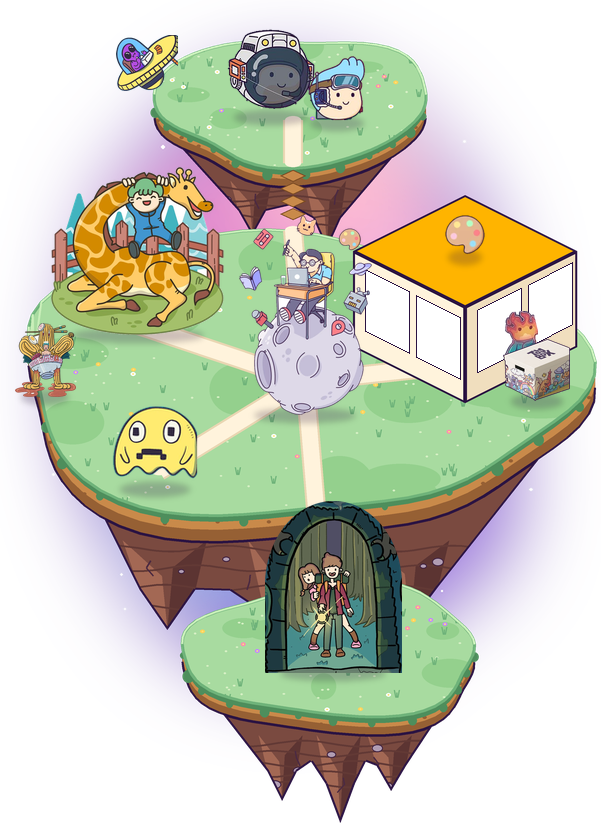
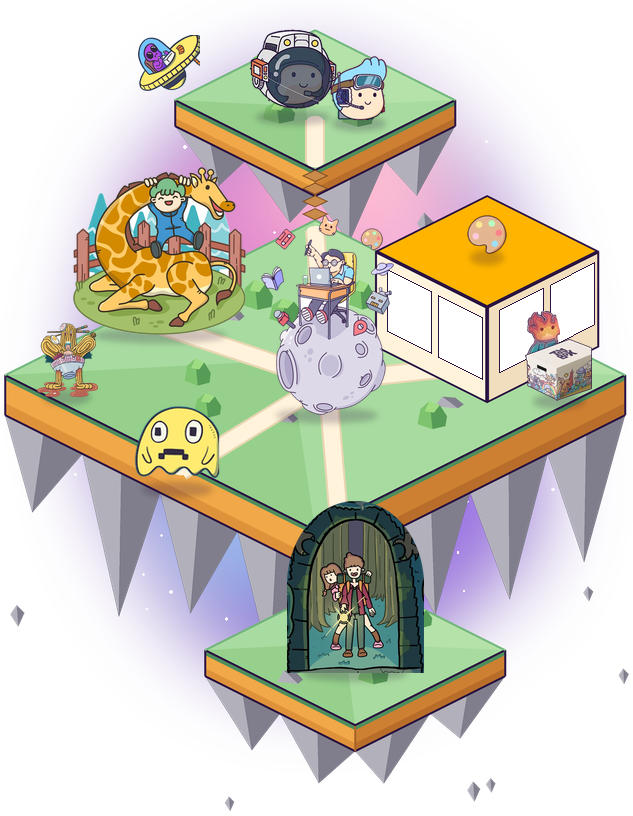
Village islands in the low-poly floating style (owner reference): square grass slabs on thick orange soil, faceted grey rock shards underneath, floating shards, low-poly bushes and stones
The galaxy cloud stays behind; no water. Places, labels and walkers keep their positions.

Claude-Session: https://claude.ai/code/session_014vZdpTepmb6uBiaAW96HMH

diff --git a/assets/village/village.js b/assets/village/village.js
@@ -1,2 +1,2 @@
 // Generated by scripts/village.py from village.json. Do not edit.
-window.VILLAGE={"w": 601, "h": 827, "frames": [{"wall": "left", "x": 368.7, "y": 272.8, "w": 38.1, "h": 56, "slope": 0.5}, {"wall": "left", "x": 419.1, "y": 298.0, "w": 38.1, "h": 56, "slope": 0.5}, {"wall": "right", "x": 480.7, "y": 313.2, "w": 38.1, "h": 56, "slope": -0.5}, {"wall": "right", "x": 531.1, "y": 288.0, "w": 38.1, "h": 56, "slope": -0.5}], "places": {"observatory": {"box": [223, 21, 319, 117], "label": [271.0, 129]}, "gallery": {"box": [353, 195, 578, 405], "label": [465, 411]}, "studio": {"box": [51, 167, 224, 335], "label": [137.5, 347]}, "home": {"box": [239, 215, 372, 415], "label": [305.5, 419]}, "doodle": {"box": [109, 397, 201, 489], "label": [155.0, 493]}, "hire": {"box": [265, 501, 402, 673], "label": [333.5, 677]}}, "folk": {"ufo": {"piece": "doodles", "box": [116, 35, 178, 91]}, "fire-spirit": {"piece": "rpg", "box": [505, 311, 538, 363]}, "noodle-bath": {"piece": "noodles", "box": [15, 323, 76, 397]}}, "walkers": [{"name": "car", "piece": "road-trip", "src": "assets/sprites/car.png", "h": 52, "face": -1, "aspect": 1.379, "route": [[233, 357], [159, 333]]}, {"name": "dog", "piece": "doodles", "src": "assets/sprites/dog.png", "h": 70, "face": -1, "aspect": 0.713, "route": [[251, 409], [195, 447]]}, {"name": "plug-hero", "piece": "plug-hero", "src": "assets/sprites/plug-hero.png", "h": 66, "face": -1, "aspect": 0.821, "route": [[365, 377], [433, 367]]}, {"name": "orange-monster", "piece": "doodles", "src": "assets/sprites/orange-monster.png", "h": 44, "face": 1, "aspect": 1.078, "route": [[293, 131], [293, 165], [293, 213]]}, {"name": "crab", "piece": "summertime", "src": "assets/sprites/crab.png", "h": 30, "face": 0, "aspect": 1.442, "route": [[225, 647], [261, 629]]}], "scenery": [], "lantern": [321.4, 617.1], "smoke": [[45.5, 341]]};
+window.VILLAGE={"w": 633, "h": 816, "frames": [{"wall": "left", "x": 390.7, "y": 272.8, "w": 38.1, "h": 56, "slope": 0.5}, {"wall": "left", "x": 441.1, "y": 298.0, "w": 38.1, "h": 56, "slope": 0.5}, {"wall": "right", "x": 502.7, "y": 313.2, "w": 38.1, "h": 56, "slope": -0.5}, {"wall": "right", "x": 553.1, "y": 288.0, "w": 38.1, "h": 56, "slope": -0.5}], "places": {"observatory": {"box": [245, 21, 341, 117], "label": [293.0, 129]}, "gallery": {"box": [375, 195, 600, 405], "label": [487, 411]}, "studio": {"box": [73, 167, 246, 335], "label": [159.5, 347]}, "home": {"box": [261, 215, 394, 415], "label": [327.5, 419]}, "doodle": {"box": [131, 397, 223, 489], "label": [177.0, 493]}, "hire": {"box": [287, 501, 424, 673], "label": [355.5, 677]}}, "folk": {"ufo": {"piece": "doodles", "box": [138, 35, 200, 91]}, "fire-spirit": {"piece": "rpg", "box": [527, 311, 560, 363]}, "noodle-bath": {"piece": "noodles", "box": [37, 323, 98, 397]}}, "walkers": [{"name": "car", "piece": "road-trip", "src": "assets/sprites/car.png", "h": 52, "face": -1, "aspect": 1.379, "route": [[255, 357], [181, 333]]}, {"name": "dog", "piece": "doodles", "src": "assets/sprites/dog.png", "h": 70, "face": -1, "aspect": 0.713, "route": [[273, 409], [217, 447]]}, {"name": "plug-hero", "piece": "plug-hero", "src": "assets/sprites/plug-hero.png", "h": 66, "face": -1, "aspect": 0.821, "route": [[387, 377], [455, 367]]}, {"name": "orange-monster", "piece": "doodles", "src": "assets/sprites/orange-monster.png", "h": 44, "face": 1, "aspect": 1.078, "route": [[315, 131], [315, 165], [315, 213]]}, {"name": "crab", "piece": "summertime", "src": "assets/sprites/crab.png", "h": 30, "face": 0, "aspect": 1.442, "route": [[247, 647], [283, 629]]}], "scenery": [], "lantern": [343.4, 617.1], "smoke": [[67.5, 341]]};

diff --git a/scripts/village.py b/scripts/village.py
@@ -23,6 +23,10 @@ GRASS, GRASS_L, GRASS_R = (168, 219, 160), (111, 179, 122), (78, 142, 92)
 SAND = (255, 227, 168)
 CLIFF, CLIFF_DARK = (201, 138, 74), (150, 96, 52)
 ROCK, ROCK_LIT, ROCK_DARK = (122, 74, 64), (163, 104, 84), (92, 52, 50)
+SOIL_L, SOIL_R, SOIL_L_DARK, SOIL_R_DARK, SOIL_EDGE = (240, 168, 72), (206, 128, 50), (222, 146, 58), (184, 110, 42), (170, 100, 40)
+SHARD_LIT, SHARD_DARK, SHARD_LINE = (178, 176, 186), (128, 126, 140), (98, 96, 112)
+GRASS_FACE, GRASS_FACE2 = (150, 208, 140), (180, 226, 168)
+BUSH_LIT, BUSH_DARK, BUSH_TOP = (126, 196, 110), (86, 156, 86), (160, 220, 130)
 STONE, PEBBLE = (176, 156, 178), (150, 96, 52)
 GRASS_DEEP, GRASS_SPECK, GRASS_LIGHT = (126, 196, 120), (214, 240, 196), (200, 238, 184)
 FLOWERS = [(255, 143, 177), (255, 255, 255), (255, 210, 90), (195, 139, 255)]
@@ -57,112 +61,81 @@ def scaled(pts, cx, cy, k, dy=0):
     return [(cx + (x - cx) * k, cy + (y - cy) * k + dy) for x, y in pts]
 
 
-def island(base, cx, cy, hw, hh, depth, seed=1, k=.97, tips=((-.45, .32), (0, .48), (.42, .3))):
-    """A floating island: a grass top over a soil band, and a rock underside that tapers into points.
-    tips: (x offset as a share of the width, depth as a share of the width) for each hanging point."""
-    import math
+def facet(d, pts, light, dark, axis=None):
+    """A low-poly shape: two faces split down the middle, the left lit and the right in shade."""
+    cx = sum(x for x, _ in pts) / len(pts)
+    top = min(pts, key=lambda p: p[1])
+    bot = max(pts, key=lambda p: p[1])
+    d.polygon(P(pts), fill=dark)
+    left = [p for p in pts if p[0] <= cx]
+    d.polygon(P([top] + sorted(left, key=lambda p: p[1]) + [bot]), fill=light)
+
+
+def island(base, cx, cy, hw, hh, depth, seed=1, shards=3, deco=10):
+    """A low-poly floating island: a square grass slab on thick soil, grey rock shards underneath,
+    small shards floating around it, and low-poly bushes and stones on top (plain shapes)."""
     import random
-    rnd = random.Random(seed * 101)
+    rnd = random.Random(seed * 31)
     d = ImageDraw.Draw(base)
-    top = blob(cx, cy, hw * k, hh * .9, seed, wobble=.11)
-    rx = hw * k
-    # the front half of the outline, left to right, at the bottom of the soil band
-    left = min(range(len(top)), key=lambda i: top[i][0])
-    right = max(range(len(top)), key=lambda i: top[i][0])
-    front, i = [], left
-    while True:   # points with angles from pi down to 0 run through the front (larger y)
-        front.append((top[i][0], top[i][1] + depth))
-        if i == right:
+    L, B, R, T = (cx - hw, cy), (cx, cy + hh), (cx + hw, cy), (cx, cy - hh)
+    dn = lambda p, k=depth: (p[0], p[1] + k)
+    # rock shards under the two front edges, each split into a lit and a shaded face
+    for edge, n in (((L, B), shards), ((B, R), shards)):
+        (x0, y0), (x1, y1) = dn(edge[0]), dn(edge[1])
+        for j in range(n):
+            t0, t1 = j / n, (j + 1) / n
+            a = (x0 + (x1 - x0) * t0, y0 + (y1 - y0) * t0)
+            b = (x0 + (x1 - x0) * t1, y0 + (y1 - y0) * t1)
+            mx, my = (a[0] + b[0]) / 2, (a[1] + b[1]) / 2
+            tip = (mx + rnd.uniform(-.15, .15) * hw / n, my + hw * rnd.uniform(.28, .5) * (1.2 - abs(.5 - (t0 + t1) / 2)))
+            d.polygon(P([a, (mx, my - 2), tip]), fill=SHARD_LIT, outline=SHARD_LINE)
+            d.polygon(P([(mx, my - 2), b, tip]), fill=SHARD_DARK, outline=SHARD_LINE)
+    # soil sides (left lit, right shaded), with a darker band at the bottom
+    d.polygon(P([L, B, dn(B), dn(L)]), fill=SOIL_L)
+    d.polygon(P([B, R, dn(R), dn(B)]), fill=SOIL_R)
+    d.polygon(P([dn(L, depth * .7), dn(B, depth * .7), dn(B), dn(L)]), fill=SOIL_L_DARK)
+    d.polygon(P([dn(B, depth * .7), dn(R, depth * .7), dn(R), dn(B)]), fill=SOIL_R_DARK)
+    for (p0, p1) in ((L, B), (B, R)):   # the turf's thickness over the soil
+        d.polygon(P([p0, p1, dn(p1, 5), dn(p0, 5)]), fill=GRASS_R)
+    d.line(P([dn(L), dn(B), dn(R)]), fill=INK, width=2 * S)
+    d.line(P([L, dn(L)]), fill=INK, width=2 * S)
+    d.line(P([R, dn(R)]), fill=INK, width=2 * S)
+    d.line(P([B, dn(B)]), fill=SOIL_EDGE, width=2 * S)
+    # grass top in four low-poly faces around the center
+    c = (cx + rnd.uniform(-.1, .1) * hw, cy + rnd.uniform(-.1, .1) * hh)
+    for (p0, p1), col in (((T, L), GRASS), ((L, B), GRASS_FACE), ((B, R), GRASS), ((R, T), GRASS_FACE2)):
+        d.polygon(P([c, p0, p1]), fill=col)
+    d.line(P([L, B, R]), fill=INK, width=2 * S)
+    d.line(P([L, T, R]), fill=GRASS_L, width=2 * S)
+    # low-poly bushes and stones on top (kept away from the middle, where the places stand)
+    spots = []
+    for _ in range(deco * 6):
+        if len(spots) >= deco:
             break
-        i = (i - 1) % len(top)
-    if front[len(front) // 2][1] < cy:   # walked the back edge: go the other way round
-        front, i = [], left
-        while True:
-            front.append((top[i][0], top[i][1] + depth))
-            if i == right:
-                break
-            i = (i + 1) % len(top)
-    # rock underside: from the right end, down to each point and back up between them, to the left end
-    under = []
-    pts = sorted(tips, key=lambda t: -t[0])
-    bot = cy + hh * .9 + depth
-    for j, (ox, dep) in enumerate(pts):
-        x = cx + ox * rx
-        if j:
-            px = cx + pts[j - 1][0] * rx
-            under.append(((x + px) / 2, bot + rx * .18))           # the valley between two points
-        under.append((x + rx * .1, bot + rx * dep * .55))        # shoulder
-        under.append((x, bot + rx * dep))                         # the point
-        under.append((x - rx * .1, bot + rx * dep * .55))
-    rock = front + under
-    d.polygon(P(rock), fill=ROCK)
-
-    def clipped(poly, paint):
-        """Paint on a layer and keep only what falls inside poly (texture stays inside its shape)."""
-        layer = Image.new("RGBA", base.size)
-        paint(ImageDraw.Draw(layer))
-        m = Image.new("L", base.size, 0)
-        ImageDraw.Draw(m).polygon(P(poly), fill=255)
-        layer.putalpha(Image.fromarray(np.minimum(np.array(layer.getchannel("A")), np.array(m))))
-        base.alpha_composite(layer)
-
-    def rock_texture(ld):
-        for ox, dep in pts:   # each point: a lit face on the left, a shaded face on the right
-            x = cx + ox * rx
-            ld.polygon(P([(x - rx * .1, bot + rx * dep * .55), (x, bot + rx * dep), (x - rx * .02, bot + rx * dep * .4), (x - rx * .16, bot)]), fill=ROCK_LIT)
-            ld.polygon(P([(x + rx * .02, bot + rx * dep * .3), (x, bot + rx * dep), (x + rx * .1, bot + rx * dep * .55), (x + rx * .14, bot)]), fill=ROCK_DARK)
-        for j in range(5):   # strata: wavy layers across the rock
-            y0 = bot + 8 + j * rx * .07
-            line = [(x, y0 + 3 * math.sin(x / 18 + j * 1.7 + seed)) for x in range(int(cx - rx * 1.2), int(cx + rx * 1.2), 6)]
-            ld.line(P(line), fill=ROCK_DARK + (200,), width=2 * S)
-        for _ in range(int(rx / 18)):   # cracks
-            x, y = cx + rnd.uniform(-.8, .8) * rx, bot + rnd.uniform(.05, .4) * rx
-            ld.line(P([(x, y), (x + rnd.uniform(-6, 6), y + 7), (x + rnd.uniform(-8, 8), y + 15)]), fill=INK + (150,), width=S + 2)
-        for _ in range(int(rx / 22)):   # stones set in the rock
-            x, y, r = cx + rnd.uniform(-.8, .8) * rx, bot + rnd.uniform(.05, .35) * rx, rnd.uniform(3, 6)
-            ld.ellipse(P([(x - r, y - r * .7), (x + r, y + r * .7)]), fill=STONE, outline=INK + (180,), width=S)
-    clipped(rock, rock_texture)
-    d.polygon(P(rock), outline=INK, width=2 * S)
-
-    for kk in range(depth, 0, -2):   # soil band under the grass, with a darker lower half
-        d.polygon(P(scaled(top, cx, cy, 1.0, kk)), fill=CLIFF_DARK if kk > depth * .6 else CLIFF)
-    soil = scaled(top, cx, cy, 1.0, depth)
-
-    def soil_texture(ld):
-        for x, y in front[::2]:   # pebbles along the band
-            if rnd.random() < .6:
-                yy = y - depth * rnd.uniform(.3, .8)
-                ld.ellipse(P([(x - 2, yy - 1.5), (x + 2, yy + 1.5)]), fill=PEBBLE)
-    clipped([(x, y - depth) for x, y in front] + front[::-1], soil_texture)
-    d.line(P(front), fill=INK, width=2 * S)
-    d.polygon(P(scaled(top, cx, cy, 1.0, 6)), fill=GRASS_R)   # the turf's own thickness
-    # the grass lip hangs over the soil in small drips
-    for x, y in front[1:-1:3]:
-        r = rnd.uniform(3, 6)
-        d.ellipse(P([(x - r, y - depth + 2), (x + r, y - depth + 2 + r * 2.2)]), fill=GRASS_R)
-    d.polygon(P(top), fill=GRASS)
-
-    def grass_texture(ld):
-        for _ in range(int(rx / 14)):   # darker patches
-            x, y = cx + rnd.uniform(-.9, .9) * rx, cy + rnd.uniform(-.8, .8) * hh
-            a, b = rnd.uniform(.08, .2) * rx, rnd.uniform(.04, .1) * rx
-            ld.ellipse(P([(x - a, y - b), (x + a, y + b)]), fill=GRASS_DEEP + (120,))
-        for _ in range(int(rx * .5)):   # light specks
-            x, y = cx + rnd.uniform(-1, 1) * rx, cy + rnd.uniform(-1, 1) * hh
-            ld.ellipse(P([(x - 1.2, y - .8), (x + 1.2, y + .8)]), fill=GRASS_SPECK)
-        for _ in range(int(rx / 5)):   # grass tufts
-            x, y = cx + rnd.uniform(-.95, .95) * rx, cy + rnd.uniform(-.9, .9) * hh
-            for dx in (-2.5, 0, 2.5):
-                ld.line(P([(x + dx * .4, y), (x + dx, y - 5 - abs(dx))]), fill=GRASS_L, width=S + 1)
-        for _ in range(int(rx / 10)):   # little flowers
-            x, y = cx + rnd.uniform(-.9, .9) * rx, cy + rnd.uniform(-.85, .85) * hh
-            c = rnd.choice(FLOWERS)
-            ld.ellipse(P([(x - 2.4, y - 1.8), (x + 2.4, y + 1.8)]), fill=c)
-            ld.ellipse(P([(x - .9, y - .7), (x + .9, y + .7)]), fill=(255, 225, 120))
-    clipped(top, grass_texture)
-    d.line(P(top + [top[0]]), fill=GRASS_L, width=3 * S)
-    back = [p for p in top if p[1] < cy]   # a soft light along the back edge
-    d.line(P(sorted(back)), fill=GRASS_LIGHT, width=2 * S)
+        u, v = rnd.uniform(-1, 1), rnd.uniform(-1, 1)
+        if abs(u) + abs(v) > .9 or abs(u) + abs(v) < .55:
+            continue
+        x, y = cx + (u - v) * hw / 2, cy + (u + v) * hh / 2
+        if all(abs(x - a) + abs(y - b) > 34 for a, b in spots):
+            spots.append((x, y))
+    for x, y in sorted(spots, key=lambda p: p[1]):
+        if rnd.random() < .7:   # bush: a faceted rounded block
+            w, h = rnd.uniform(12, 18), rnd.uniform(18, 28)
+            pts = [(x - w, y - 2), (x - w * .8, y - h * .7), (x - w * .2, y - h), (x + w * .5, y - h * .85), (x + w, y - h * .4), (x + w * .9, y), (x, y + 3)]
+            facet(d, pts, BUSH_LIT, BUSH_DARK)
+            d.polygon(P([(x - w * .2, y - h), (x + w * .5, y - h * .85), (x + w * .1, y - h * .55), (x - w * .5, y - h * .6)]), fill=BUSH_TOP)
+        else:   # stone: a faceted grey rock
+            w, h = rnd.uniform(10, 15), rnd.uniform(9, 14)
+            pts = [(x - w, y), (x - w * .5, y - h), (x + w * .4, y - h * .9), (x + w, y - h * .2), (x + w * .6, y + 2)]
+            facet(d, pts, SHARD_LIT, SHARD_DARK)
+    # small shards floating around the island
+    for _ in range(3):
+        side = rnd.choice((-1, 1))
+        x = cx + side * rnd.uniform(.75, 1.05) * hw
+        y = cy + hh + depth + rnd.uniform(.05, .35) * hw
+        r = rnd.uniform(5, 9)
+        pts = [(x, y - r * 1.2), (x + r, y - r * .2), (x + r * .2, y + r * 1.6), (x - r * .8, y)]
+        facet(d, pts, SHARD_LIT, SHARD_DARK)
 
 
 def path(d, pts, w=16):
@@ -258,9 +231,9 @@ def build():
     # the calm sea: one soft diamond, with a lighter band
     # islands: main, the observatory islet (top) and the gate islet (bottom)
     galaxy(base)
-    island(base, 360, 205, 140, 70, 18, seed=2, tips=((-.3, .4), (.25, .5)))
-    island(base, 360, 480, 310, 155, 26, seed=1, k=.9)
-    island(base, 400, 755, 150, 75, 18, seed=3, tips=((-.35, .45), (.05, .6), (.4, .38)))
+    island(base, 360, 205, 140, 70, 26, seed=2, shards=2, deco=6)
+    island(base, 360, 480, 310, 155, 40, seed=1, shards=4, deco=18)
+    island(base, 400, 755, 150, 75, 26, seed=3, shards=2, deco=6)
     d = ImageDraw.Draw(base)
     bridge(d, (360, 268), (360, 332), 5)
     bridge(d, (384, 628), (396, 688), 5)
